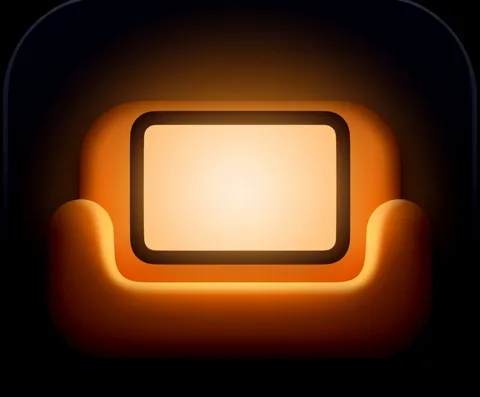
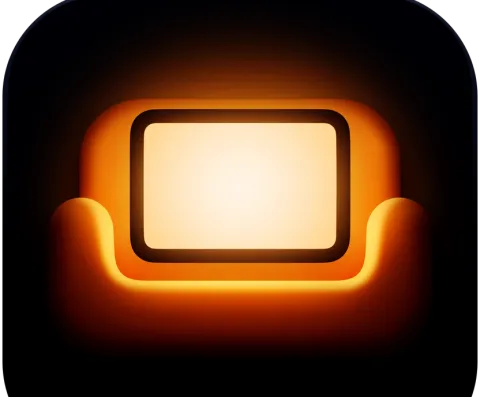
COPY.md and README for the working Windows count, Worker and hero light; reproducible glow asset; scroll frame reads before writes; reduced motion drops the card spotlight; step press and pop

diff --git a/site/src/style.css b/site/src/style.css
@@ -201,6 +201,9 @@ h1 { display: flex; flex-direction: column; align-items: center; gap: 2px; }
 .seq-steps button b { flex: none; width: 28px; height: 28px; display: grid; place-items: center; border-radius: 50%; border: 1px solid var(--line); font: 500 13px var(--mono); color: var(--t3); transition: background .25s, color .25s, border-color .25s; }
 .seq-steps button[aria-current="step"] { background: rgba(255,255,255,.07); color: #fff; }
 .seq-steps button[aria-current="step"] b { background: #fff; color: #000; border-color: #fff; }
+.seq-steps button[aria-current="step"] b { animation: step-pop .38s var(--ease); }
+@keyframes step-pop { from { transform: scale(.8); } }
+.seq-steps button:active { transform: scale(.98); transition: transform .12s; }
 .replay { all: unset; box-sizing: border-box; display: inline-flex; align-items: center; gap: 8px; margin: 14px 0 0 10px; padding: 9px 16px 9px 12px; border-radius: 999px; cursor: pointer; font-size: 14.5px; color: var(--t2); border: 1px solid var(--line); background: var(--glass); box-shadow: var(--edge); }
 .replay[hidden] { display: none; } .replay:hover { color: #fff; background: rgba(60,60,66,.6); } .replay:focus-visible { outline: 2px solid var(--amber-3); outline-offset: 3px; } .replay .i { width: 16px; height: 16px; }
 .seq + * { margin-top: 0; }
@@ -370,5 +373,5 @@ summary { transition: color .2s; } summary:active { transform: scale(.99); }
   *, *::before, *::after { animation: none !important; transition-duration: .01ms !important; transition-delay: 0s !important; }
   .reveal-ready .reveal.pre, .reveal-ready .shelf.pre { transform: none; }
   .stage, .lamp, .room, .room-cursor { transform: none !important; }
-  .room-cursor, .lamp-film { display: none; }
+  .room-cursor, .lamp-film, .spot::before { display: none; }
 }

diff --git a/site/src/main.ts b/site/src/main.ts
@@ -136,13 +136,14 @@ const scrollScene = () => {
     return;
   }
   const y = scrollY;
+  // read before writing, so a scroll frame never forces a second layout
+  const top = stage ? stage.parentElement!.getBoundingClientRect().top : 0;
   if (y < innerHeight * 1.5) {
     if (room) room.style.transform = `translate3d(0, ${(y * 0.35).toFixed(1)}px, 0)`;
     if (lamp) lamp.style.transform = `translate3d(0, ${(y * 0.16).toFixed(1)}px, 0) scale(${(1 - Math.min(y, 600) / 6000).toFixed(4)})`;
   }
-  if (stage) {
-    // 0 when the stage's top meets the bottom of the window, 1 when it reaches 35% from the top
-    const top = stage.getBoundingClientRect().top;
+  if (stage && top < innerHeight * 1.2 && top > -innerHeight) {
+    // 0 when the first look's top meets the bottom of the window, 1 when it reaches 35% from the top
     const p = Math.max(0, Math.min(1, (innerHeight - top) / (innerHeight * 0.65)));
     const e = 1 - Math.pow(1 - p, 3);
     stage.style.transform = `rotateX(${((1 - e) * 14).toFixed(2)}deg) translate3d(0, ${((1 - e) * 36).toFixed(1)}px, 0) scale(${(0.94 + e * 0.06).toFixed(4)})`;

diff --git a/site/COPY.md b/site/COPY.md
@@ -1,16 +1,16 @@
 # Couch — landing page copy
 
-Ticket 137 · 2 November 2026 · picked copy applied on `ticket/137`.
+Ticket 137 · 2 November 2026 · picked copy applied on `ticket/137`. Updated in ticket 138 (design upgrade): the two accepted copy-review edits, the hero's new layout, the working Windows count and the strings it needs. Changes are marked “ticket 138”.
 
 ## Direction and implementation boundaries
 
 For someone on the sofa, not someone shopping for a computer. Lead with the evening and the phone already in their pocket; explain the Screen, Apps and Library as they appear. Warm, calm and confident. Short sentences, British spelling, no hype or exclamation marks. Product terms follow Couch's `GLOSSARY.md`: Screen, Remote, Home, Apps, Library, Continue watching, Now Playing, Settings and Quick settings.
 
-This is a copy pass, not a redesign. Keep the existing section order, IDs, classes, screenshot slots, mocks and motion. The Windows card uses existing classes only. No changes to the copied `src/couch-ui/` files. No future look-picker claim: it is not available today.
+Ticket 137 was a copy pass, not a redesign; ticket 138 redesigned the page around this copy and kept its IDs, screenshot slots and mocks. No changes to the copied `src/couch-ui/` files. No future look-picker claim: it is not available today.
 
 **Publication gates still apply.** The app README says Couch is not distributed yet. The page's Gumroad, Releases and source links are the planned distribution routes, not evidence that a public release exists. The Gumroad URL remains a placeholder. Do not publish until the README's existing release, source, Gumroad and first-open checks are complete.
 
-**Windows is copy and markup only.** A plain `button[data-demand="windows"]` is in the download section. It has no click handler, endpoint, storage or counting. The visible stub notice tells the truth. The confirmation is present but hidden; show it only after a real count succeeds in a later ticket. Do not fake a successful count. The anonymous-count wording is a requirement for that future implementation, including its access logs, not a claim that a counting backend has been audited here.
+**Windows counting (ticket 138).** `button[data-demand="windows"]` sends one `POST /api/demand/windows` with no body to the site's Worker (`worker/`), which adds one to a per-platform number in D1 and stores nothing else (no IP, user agent, body or cookie; Workers logs off). The confirmation shows only after the Worker answers with success; `localStorage` remembers the tap so the same browser counts once. If the request fails, the error line shows and the button stays. Before publishing, check that nothing at the hosting layer keeps IP addresses for these requests (README, “Before publishing”).
 
 ## 1. Navigation and shared controls
 
@@ -37,12 +37,14 @@ This is a copy pass, not a redesign. Keep the existing section order, IDs, class
 ### Picked copy
 
 - Badge: **Early release · Free and open source**
-- Headline: **Settle in with Couch.**
+- Headline: **Settle in with Couch.** (ticket 138: set as a small line “Settle in with” above the wordmark “Couch.”; one `h1`, read as one sentence)
 - Body: A calm home screen for your TV, with YouTube, Netflix and your own videos. Your phone is the Remote.
 - Primary button: **Get Couch, pay what you want**
 - Secondary link: **or download free from GitHub**
 - Meta strip: **Mac today · macOS 14+** / **Apple silicon** / **GPL-3.0-or-later** / **No Couch account**
 - Meta strip accessible name: **Requirements**
+- Link under the meta strip (ticket 138), to the Windows card: **On Windows? Tell us you'd use it**
+- First-look section under the hero (ticket 138), accessible name: **Couch on the Screen, with the Remote**
 - Decorative icon alt: empty.
 - Product picture alts: see §12.
 
@@ -150,7 +152,7 @@ No “plays every format”, codec guarantee or promise that the household's vid
   - **TMDB, for optional online details.** Couch searches video titles and fetches posters and stills. Online details are on when a TMDB key is set. A release build can include a key, or you can add your own. Turn Online details off in Settings if you prefer.
   - **Your phone, over home Wi-Fi.** The Remote page is served by your Mac on the local network, not by an internet service.
 - Closing line: Couch does not check for updates or send data to a Couch server.
-- Windows privacy line: The Windows button is not connected yet. When enabled, it will record only an anonymous count: no email, no cookies and no IP stored.
+- Windows privacy line (ticket 138, counting connected): The Couch for Windows button adds one anonymous count on this site: no email, no cookies and no IP stored. Your browser keeps a note of the tap, so the same browser counts once.
 
 Do not shorten this to “nothing leaves your Mac”, “fully offline” or “no cookies” for the whole app. Services can track and keep cookies. Library title searches and online artwork make requests. The Windows count is a website feature, not an app connection.
 
@@ -223,14 +225,16 @@ Do not name an installer format. Requirements and first-open security steps rema
 3. **Windows, perhaps next.** — Signals uncertainty, but is less useful as a card label.
 
 - Card heading: **Couch for Windows**
-- Body: **Not yet. Would you use it? Help us decide what to build next.**
+- Body (ticket 138, the enabled-state copy below, now applied): **Not yet. Tap if you'd use it, so we know what to build next.**
 - Button: **I'd use Couch for Windows**
-- Current stub notice: **Demand counting is not connected yet.**
-- Short privacy line: **Anonymous count when enabled. No email, no cookies, no IP stored.**
-- Confirmation, hidden and reserved for a real successful count: **Counted. Thank you.**
-- Markup contract: `type="button" data-demand="windows"`; described by the stub notice and privacy line. Confirmation: `role="status" data-demand-confirmation hidden`.
+- Short privacy line: **An anonymous count. No email, no cookies, no IP stored.**
+- Confirmation, shown only after the Worker confirms the count (or when this browser already counted): **Counted. Thank you.**
+- Error line (ticket 138), shown if the count did not go through: **That did not go through. Please try again in a moment.**
+- Decorative, not read: a check mark drawn in the confirmation.
+- Markup contract: `type="button" data-demand="windows"`, described by the privacy line; confirmation `[data-demand-confirmation]`, error `[data-demand-error]`, both announced through a visually hidden `role="status"` (`[data-demand-live]`).
+- Before ticket 138 (stub, retired): body “Not yet. Would you use it? Help us decide what to build next.”, notice “Demand counting is not connected yet.”, privacy line “Anonymous count when enabled. No email, no cookies, no IP stored.”
 
-**When counting is implemented:** remove the stub notice and the “when enabled” qualification together, update the privacy paragraph and FAQ, and show the confirmation only after success. Recommended enabled body: **Not yet. Tap if you'd use it, so we know what to build next.** Recommended enabled privacy line: **An anonymous count. No email, no cookies, no IP stored.** These enabled-state strings are hand-off copy, not applied as current facts. No email waitlist, promise of a Windows release or false success message.
+**Applied in ticket 138.** The 137 hand-off note, kept for the record: remove the stub notice and the “when enabled” qualification together, update the privacy paragraph and FAQ, and show the confirmation only after success. Recommended enabled body: **Not yet. Tap if you'd use it, so we know what to build next.** Recommended enabled privacy line: **An anonymous count. No email, no cookies, no IP stored.** These enabled-state strings are hand-off copy, not applied as current facts. No email waitlist, promise of a Windows release or false success message.
 
 ## 9. FAQ (`#faq`)
 
@@ -267,7 +271,7 @@ Yes. Couch is licensed under GPL-3.0-or-later. Read the code on GitHub, change i
 
 **Will Couch come to Windows?**
 
-Windows is being considered, not promised. The Couch for Windows button above is a place to register interest once counting is connected. Linux is not supported. Today, Couch needs Apple silicon and macOS 14 or later. The Remote runs in a phone browser; Android with Chrome is what we test.
+Windows is being considered, not promised. If you'd use it, tap Couch for Windows above: it adds one anonymous count. Linux is not supported. Today, Couch needs Apple silicon and macOS 14 or later. The Remote runs in a phone browser; Android with Chrome is what we test.
 
 ## 10. Footer
 
@@ -380,9 +384,9 @@ All app paths below are in the read-only `/Users/abdullahnettoor/Projects/couch`
 | No Couch analytics, crash reporting or automatic update checks | No matches for `analytics`, `telemetry`, `sentry`, `crashReporter` or `autoUpdater` in app `src`; `SHIPPING.md` Updates says an updater is still needed. This is a source review, not a guarantee about third-party services. |
 | Not yet notarised | `SHIPPING.md` Signing and notarisation; `scripts/package.mjs` ad-hoc default. Existing README first-open advice is older; preserve ticket 135's macOS 15+ correction. Apple's current “Open apps safely” instructions at https://support.apple.com/en-gb/102445 support try opening → Privacy & Security → Open Anyway → confirm Open. Verify again on the release build before publishing. |
 | Free/open source vs planned downloads | App `LICENSE` and `README.md` Licence: GPL-3.0-or-later. Gumroad/$0 and GitHub Releases are ticket 135 distribution decisions. `SHIPPING.md` and the site README make clear that publishing is still gated. |
-| Windows interest, not a delivery promise | Ticket 137 permits demand markup only. `SHIPPING.md` Other platforms explains native work and a separate Netflix trial would be needed. No counter exists in this change, so the copy says when counting will apply. |
+| Windows interest, not a delivery promise | Ticket 137 permits demand markup only. `SHIPPING.md` Other platforms explains native work and a separate Netflix trial would be needed. Ticket 138 connected the counter (`worker/demand.ts`, unit tests in `worker/demand.test.ts`): only a platform name and a number are stored. |
 | Site cookies/analytics and licence notices | Local site source and request/storage check; self-hosted fonts; `public/licenses/` full legal notices; `LICENSE` and `package.json`. Future counting must honour no-IP-storage at the hosting/logging layer as well as in code. |
 
 ### Checks for this pass
 
-Run the build, drift check and existing tests; inspect picked copy against this deck and the built HTML; check local renders at the existing desktop/phone widths and 200% zoom, no overflow, reduced motion and keyboard access. Confirm the Windows button makes no requests, changes no storage and does not reveal the success message. No deployment, no remote, no live Couch, no service sign-in.
+Run the build, drift check and existing tests; inspect picked copy against this deck and the built HTML; check local renders at the existing desktop/phone widths and 200% zoom, no overflow, reduced motion and keyboard access. (Ticket 138: the Windows button now makes exactly one same-origin POST, sets one `localStorage` key and shows the confirmation only after success.) No deployment, no remote, no live Couch, no service sign-in.

diff --git a/site/README.md b/site/README.md
@@ -1,6 +1,6 @@
 # couch-site
 
-The landing page for [Couch](https://github.com/abdullahnettoor/couch), planned for `couch.abdullahnettoor.com`. A static site: plain HTML, CSS and TypeScript built with Vite. No framework, no analytics, no cookies, no third-party requests (Geist and Geist Mono are self-hosted, SIL OFL).
+The landing page for [Couch](https://github.com/abdullahnettoor/couch), planned for `couch.abdullahnettoor.com`. A static site: plain HTML, CSS and TypeScript built with Vite, plus one small Cloudflare Worker for the anonymous Couch for Windows count (`worker/`). No framework, no analytics, no cookies, no third-party requests (Geist and Geist Mono are self-hosted, SIL OFL).
 
 ## Run it
 
@@ -8,18 +8,35 @@ The landing page for [Couch](https://github.com/abdullahnettoor/couch), planned 
 pnpm install
 pnpm dev          # http://localhost:5173
 pnpm build        # type-check, then build to dist/
-pnpm preview      # serve dist/ at http://localhost:4173
+pnpm preview      # serve dist/ at http://localhost:4173 (static only: the Windows button shows its error line here)
+pnpm test         # CSS-scope fixtures and the Worker's unit tests (node --test)
+pnpm dev:worker   # build, apply the D1 migration to a local database, then wrangler dev --local at http://127.0.0.1:8790
 ```
+
+`pnpm dev:worker` runs everything locally (Miniflare): the site, `/api/*` and a local D1 file in `.wrangler/`. It never touches the Cloudflare account.
 
 ## Settings in one place
 
 `src/config.ts` holds `GUMROAD_URL` (a **placeholder** until the Gumroad product exists), `GITHUB_URL`, `RELEASES_URL` and `SITE_URL`. They are filled into `index.html` at build time (`{{GUMROAD_URL}}` and so on), so every link works without JavaScript.
 
-## Copy and Windows interest
+## Copy
 
-`COPY.md` is the ticket 137 copy deck: every page string, headline alternatives, picks and factual evidence. Keep it in step with text changes, including screenshot alternatives and social-card text.
+`COPY.md` is the copy deck (tickets 137 and 138): every page string, headline alternatives, picks and factual evidence. Keep it in step with text changes, including screenshot alternatives and social-card text.
 
-The Windows card is an explicit stub. Its plain `button[data-demand="windows"]` has no handler, counter, network request or storage. The success copy is hidden in `[data-demand-confirmation]`; do not show it until a real count succeeds. `COPY.md` includes the enabled-state wording for a future implementation. Before enabling counting, verify the anonymous-count promise (no email, cookies or IP stored, including infrastructure logs) and update the card, FAQ and privacy copy together. Nothing here promises a Windows release.
+## The Couch for Windows count
+
+A demand button, not a waitlist. `button[data-demand="windows"]` in the download section (`#windows`; the hero links to it) sends one `POST /api/demand/windows` with no body and `credentials: "omit"`. On success the card shows "Counted. Thank you." and `localStorage` (`couch:demand:windows`) remembers the tap, so the same browser counts once; on failure an error line shows and the button stays. No cookies.
+
+The Worker (`worker/index.ts` is the entry and exports only its default handler, because workerd treats named exports as entrypoints; the logic is `worker/demand.ts`):
+
+| Route | Does |
+| --- | --- |
+| `POST /api/demand/windows` | Adds one to the `windows` row in D1 (`migrations/0001_demand.sql`: `platform`, `count`, nothing else). 204. Refuses other methods (405), unknown platforms (404), requests whose `Origin` is not the site (or the request's own origin, for local dev and previews) or whose `Sec-Fetch-Site` is not `same-origin` (403). A site-wide burst cap (Workers rate limit `DEMAND_LIMIT`, 60 a minute, keyed by the platform name, never by the visitor) answers 429. A database failure is a 503, never a false success. The body is never read. |
+| `GET /api/demand` | The counts as JSON, e.g. `{"windows": 12}`, `no-store`. For the site owner; the numbers are not secret. |
+| any other `/api/*` | 404 |
+| everything else | Static assets, as before (`run_worker_first: ["/api/*"]`, so the Worker never sees page requests). |
+
+Nothing about the visitor is stored: no IP, no user agent, no body, no cookie. Workers Logs and invocation logs are off in `wrangler.jsonc`. `pnpm test` covers all of this with a fake D1 and rate limit (`worker/demand.test.ts`).
 
 ## Screenshot slots
 
@@ -40,6 +57,14 @@ To replace a picture after the real shoot, drop a file named `src/shots/slot-<na
 | `setup-player` | Setup step 3 | `player.jpg` | A Library video playing |
 
 The four JPEGs are copies of `docs/screenshots/` in the Couch repo. The two Remote-section slots (`remote-screen`, `remote-phone`) carry the finite pairing sequence (QR, pair, D-pad press, highlight moves); replacing either with a still turns that part into a plain picture, so replace both or neither. The sequence's end state is the connected state, which is also what visitors with reduced motion or no JavaScript see.
+
+The hero's light is `src/shots/couch-glow.webp` (and `-480`): Couch's own icon art, `build/icon.png` in the Couch repo, cropped to the sofa and its tile darkened so it can be added to the page as light (`mix-blend-mode: screen`). Regenerate:
+
+```sh
+ffmpeg -i ../couch/build/icon.png -vf "crop=832:688:96:115,curves=all='0/0 0.25/0.05 0.6/0.6 1/1'" /tmp/glow.png
+cwebp -q 80 /tmp/glow.png -o src/shots/couch-glow.webp
+cwebp -q 80 -resize 480 397 /tmp/glow.png -o src/shots/couch-glow-480.webp
+```
 
 Other assets: `public/icon.png`, `favicon.png` and `apple-touch-icon.png` come from `build/icon.png` in the Couch repo. `public/og.png` (the social card) is generated by `node scripts/og.mjs` from `scripts/og.html`; edit that file and rerun to change it.
 
@@ -90,6 +115,15 @@ The site goes live only when all of these are true. The page links to the GitHub
 - [ ] A first release exists on GitHub Releases.
 - [ ] The Gumroad product exists, and `GUMROAD_URL` in `src/config.ts` points at it (it is a placeholder today).
 - [ ] The first-open steps on the page (open once, then System Settings → Privacy & Security → Open Anyway) are verified on the release build.
+
+- [ ] The Windows count's database exists and is bound (once, from this folder, logged in to the right account):
+  ```sh
+  pnpm wrangler d1 create couch-site-demand        # paste the printed database_id into wrangler.jsonc (d1_databases[0].database_id)
+  pnpm wrangler d1 migrations apply couch-site-demand --remote
+  ```
+  The rate limit (`ratelimits`, `namespace_id` 1138) needs no setup; pick another integer if 1138 is taken on the account. `SITE_ORIGIN` in `wrangler.jsonc` must be the public origin.
+- [ ] Nothing at the hosting layer keeps visitors' IP addresses for `/api/demand/*`: Workers Logs stay off (`observability` in `wrangler.jsonc`), no Logpush job or Tail Worker covers this Worker, and no WAF/security rule that logs requests is aimed at the path. The page promises "no IP stored".
+- [ ] After the first deploy: `curl -X POST https://couch.abdullahnettoor.com/api/demand/windows` answers 403 (no Origin), the button on the live page shows "Counted. Thank you.", and `curl https://couch.abdullahnettoor.com/api/demand` shows the count.
 
 Also re-read the "What Couch connects to" list on the page against the release build (the TMDB key, Widevine, and any updater added since).
 
